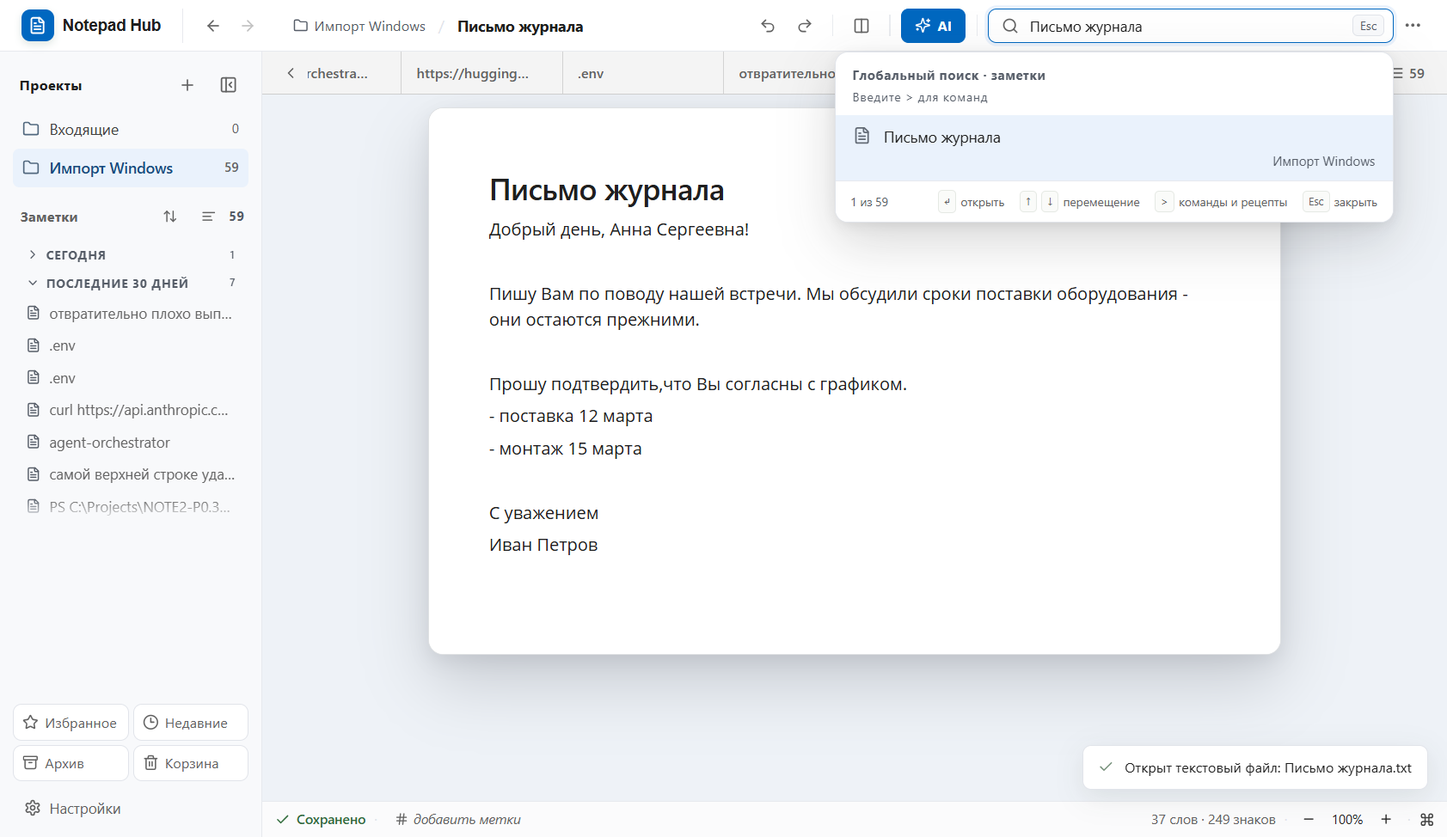
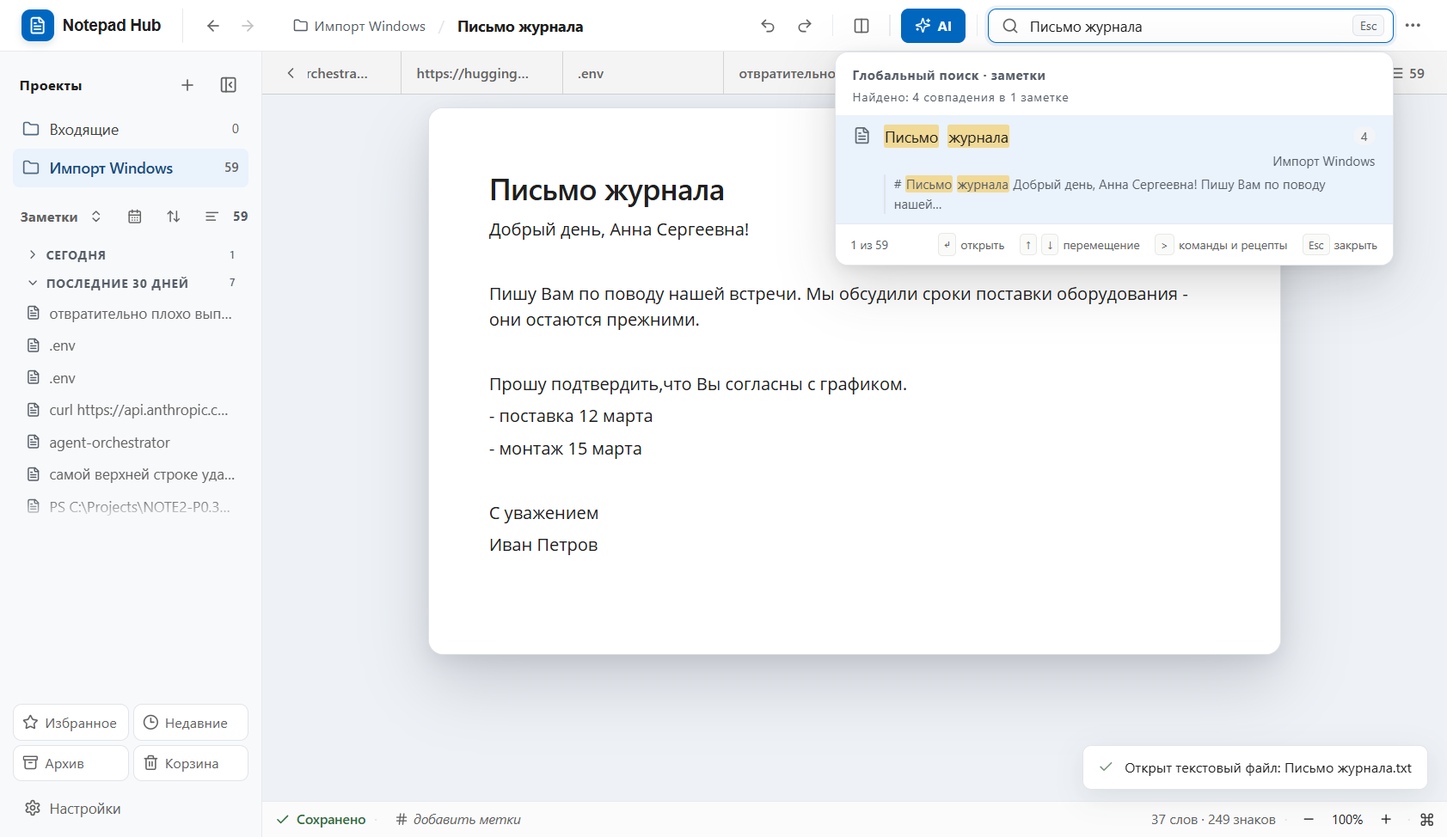
Notebook Navigator ideas: search with highlights and snippets, calendar by day, fold all groups

diff --git a/ui/src/App.tsx b/ui/src/App.tsx
@@ -14,7 +14,7 @@ import { useCreateBlockNote } from "@blocknote/react";
 import { ru } from "@blocknote/core/locales";
 import type { PartialBlock } from "@blocknote/core";
 import {
-  AlignLeft, Archive, ArrowDownToLine, ArrowLeft, ArrowRight, ArrowUpDown, ExternalLink, Link2, Replace, ChevronLeft, ChevronRight, CircleAlert, Minus, Settings, Star, Check, ChevronDown, Clock3, Command, Copy, Download, FileText,
+  AlignLeft, Archive, CalendarDays, ChevronsUpDown, ArrowDownToLine, ArrowLeft, ArrowRight, ArrowUpDown, ExternalLink, Link2, Replace, ChevronLeft, ChevronRight, CircleAlert, Minus, Settings, Star, Check, ChevronDown, Clock3, Command, Copy, Download, FileText,
   Folder, FolderInput, FolderOpen, Hash, Moon, PanelLeftClose, PanelLeftOpen, Pencil, Plus, Columns2, ImagePlus, LoaderCircle, Redo2, Tag, Wand2, RotateCcw, Search, Undo2,
   Sparkles, Sun, Trash2, X, Eye, Pin, PinOff, List, Ellipsis, Info,
 } from "lucide-react";
@@ -23,7 +23,7 @@ import { AiAssistantPanel } from "./components/AiAssistantPanel";
 import { FindBar, type FindHost } from "./components/FindBar";
 import { FindAndReplace } from "@tiptap/extension-find-and-replace";
 import { WikiLinks } from "./wikiLinkExtension";
-import { searchNotes } from "./searchNotes";
+import { searchNotes, splitHighlight } from "./searchNotes";
 import { checkProposal, cleanModelText } from "./aiChecks";
 import { outputTokensFor } from "./aiLimits";
 import { matchShortcut, SHORTCUT_HELP } from "./shortcuts";
@@ -89,6 +89,11 @@ function dateGroup(ts: number | undefined, now: number): (typeof NOTE_GROUPS)[nu
   const day = 24 * 60 * 60 * 1000;
   return ts >= start ? NOTE_GROUPS[0] : ts >= start - day ? NOTE_GROUPS[1] : ts >= start - 6 * day ? NOTE_GROUPS[2] : ts >= start - 29 * day ? NOTE_GROUPS[3] : NOTE_GROUPS[4];
 }
+
+const DAY_MS = 24 * 60 * 60 * 1000;
+const startOfDay = (ts: number) => { const d = new Date(ts); return new Date(d.getFullYear(), d.getMonth(), d.getDate()).getTime(); };
+const MONTHS_RU = ["январь", "февраль", "март", "апрель", "май", "июнь", "июль", "август", "сентябрь", "октябрь", "ноябрь", "декабрь"];
+const MONTHS_GEN = ["января", "февраля", "марта", "апреля", "мая", "июня", "июля", "августа", "сентября", "октября", "ноября", "декабря"];
 
 const AUTO_NAME = /^Заметка \d+$/;
 /** The next automatic name: "Заметка N", N = the count of live automatically named notes + 1. */
@@ -345,6 +350,9 @@ export default function App({ initial, sync }: { initial: LoadedHost; sync: Host
   const [notesSort, setNotesSort] = useState<"modified" | "title">(() => { try { return window.localStorage.getItem("nh4-notes-sort") === "title" ? "title" : "modified"; } catch { return "modified"; } });
   const [notesPreview, setNotesPreview] = useState(() => { try { return window.localStorage.getItem("nh4-notes-preview") === "1"; } catch { return false; } });
   const [closedGroups, setClosedGroups] = useState<string[]>([]);
+  const [calendarOpen, setCalendarOpen] = useState(false);
+  const [calendarMonth, setCalendarMonth] = useState(() => { const d = new Date(); return new Date(d.getFullYear(), d.getMonth(), 1).getTime(); });
+  const [dayFilter, setDayFilter] = useState<number | null>(null);   // the notes list shows the notes changed on this day
   const navStackRef = useRef<string[]>([]);
   const navPosRef = useRef(-1);
   const navSilentRef = useRef(false);
@@ -402,10 +410,13 @@ export default function App({ initial, sync }: { initial: LoadedHost; sync: Host
     if (noteView === "archive") return Boolean(doc.archived);
     if (noteView === "pinned") return Boolean(doc.pinned);
     if (noteView === "recent") return typeof doc.lastOpenedAt === "number" && !doc.archived;
+    if (dayFilter !== null) { const t = doc.modifiedAt ?? 0; return !doc.archived && t >= dayFilter && t < dayFilter + DAY_MS; }
     return !doc.archived && doc.folder === folder;
   }).sort((left, right) => noteView === "recent" || noteView === "pinned"
       ? (right.lastOpenedAt ?? 0) - (left.lastOpenedAt ?? 0)
       : 0);
+  const dayCounts = new Map<number, number>();
+  for (const doc of docs) { if (doc.deletedAt || !doc.modifiedAt) continue; const day = startOfDay(doc.modifiedAt); dayCounts.set(day, (dayCounts.get(day) ?? 0) + 1); }
   const listNow = Date.now();
   const listDocs = noteView === "recent" || noteView === "pinned" ? filteredDocs
     : [...filteredDocs].sort((a, b) => notesSort === "title" ? a.title.localeCompare(b.title, "ru") : (b.modifiedAt ?? 0) - (a.modifiedAt ?? 0));
@@ -465,7 +476,9 @@ export default function App({ initial, sync }: { initial: LoadedHost; sync: Host
     [showSearch, query, docs, contents, tags],
   );
   const searchResults = useMemo(() => searchHits.map((hit) => hit.doc), [searchHits]);
-  const searchSnippets = useMemo(() => new Map(searchHits.map((hit) => [hit.doc.id, hit.snippet])), [searchHits]);
+  const searchHitById = useMemo(() => new Map(searchHits.map((hit) => [hit.doc.id, hit])), [searchHits]);
+  const searchTotal = useMemo(() => searchHits.reduce((sum, hit) => sum + hit.matches, 0), [searchHits]);
+  const markWords = (text: string) => splitHighlight(text, query).map((part, index) => part.hit ? <mark key={index}>{part.text}</mark> : <Fragment key={index}>{part.text}</Fragment>);
   // a service whose model list cannot be loaded still works when the owner types the model name
   const selectedModel = aiModels.find((model) => model.id === aiModel) ?? (aiProvider === "compat" && aiModel.trim() ? { id: aiModel.trim(), name: aiModel.trim(), free: false } : undefined);
   const activeCursorBlock = activeId ? editor.getTextCursorPosition().block : undefined;
@@ -2241,7 +2254,7 @@ export default function App({ initial, sync }: { initial: LoadedHost; sync: Host
               : <>
                 <div className="search-scrim" onMouseDown={() => { setShowSearch(false); setQuery(""); setSelectedSearchIndex(0); window.setTimeout(restoreSearchFocus, 0); }} />
                 <div className="search-field" role="search"><Search size={16} /><input id="global-search" role="combobox" aria-expanded="true" aria-controls="search-listbox" aria-autocomplete="list" aria-activedescendant={`search-opt-${selectedSearchIndex}`} value={query} onChange={(event) => { setQuery(event.target.value); setSelectedSearchIndex(0); }} onKeyDown={handleSearchKeyDown} placeholder="Поиск заметок… Введите &gt; для команд" autoComplete="off" aria-label="Поиск заметок и команд" /><kbd>Esc</kbd></div>
-                <div className="search-modal" role="dialog" aria-label="Результаты поиска" tabIndex={0}><div className="search-results-label" id="search-title">{commandMode ? "Команды" : "Глобальный поиск · заметки"}<small>{commandMode ? "Введите название команды или рецепта" : "Введите > для команд"}</small></div>{commandMode ? <div id="search-listbox" role="listbox" aria-label="Результаты команд">{visibleCommands.map((command, index) => { const Icon = command.icon; return <button key={command.id} id={`search-opt-${index}`} tabIndex={-1} role="option" disabled={command.disabled} className="search-result command-result" aria-selected={index === selectedSearchIndex} onMouseEnter={() => setSelectedSearchIndex(index)} onClick={() => { if (command.disabled) return; rememberCommand(command.id); command.run(); setShowSearch(false); setQuery(""); setSelectedSearchIndex(0); window.setTimeout(restoreSearchFocus, 0); }}><Icon size={17} /><span>{command.label}{!commandQuery && recentCommandIds.includes(command.id) && <em className="search-recent">недавно</em>}<small>{command.hint}{command.disabled ? " · недоступно без активной заметки" : ""}</small></span>{command.shortcut && <kbd className="search-shortcut">{command.shortcut}</kbd>}</button>; })}</div> : <div id="search-listbox" role="listbox" aria-label="Результаты заметок">{searchResults.map((doc, index) => <button key={doc.id} id={`search-opt-${index}`} tabIndex={-1} role="option" className="search-result" aria-selected={index === selectedSearchIndex} onMouseEnter={() => setSelectedSearchIndex(index)} onClick={() => chooseSearchResult(doc)}><FileText size={17} /><span>{doc.title}<small>{doc.folder}{doc.archived ? " · Архив" : ""}</small>{searchSnippets.get(doc.id) ? <small className="search-snippet">{searchSnippets.get(doc.id)}</small> : null}</span></button>)}</div>}{(commandMode ? visibleCommands.length === 0 : searchResults.length === 0) && <div className="search-empty">{commandMode ? "Команды не найдены" : "Ничего не найдено"}</div>}<div className="search-modal-footer"><span className="search-count">{commandMode ? `${visibleCommands.length} из ${commandResults.length}` : `${searchResults.length} из ${docs.filter((doc) => !doc.deletedAt).length}`}</span><span><kbd>↵</kbd> открыть</span>      <span><kbd>↑</kbd><kbd>↓</kbd> перемещение</span><span><kbd>&gt;</kbd> команды и рецепты</span><span><kbd>Esc</kbd> закрыть</span></div></div>
+                <div className="search-modal" role="dialog" aria-label="Результаты поиска" tabIndex={0}><div className="search-results-label" id="search-title">{commandMode ? "Команды" : "Глобальный поиск · заметки"}<small>{commandMode ? "Введите название команды или рецепта" : query.trim() && searchResults.length > 0 ? `Найдено: ${searchTotal} ${plural(searchTotal, ["совпадение", "совпадения", "совпадений"])} в ${searchResults.length} ${plural(searchResults.length, ["заметке", "заметках", "заметках"])}` : "Введите > для команд"}</small></div>{commandMode ? <div id="search-listbox" role="listbox" aria-label="Результаты команд">{visibleCommands.map((command, index) => { const Icon = command.icon; return <button key={command.id} id={`search-opt-${index}`} tabIndex={-1} role="option" disabled={command.disabled} className="search-result command-result" aria-selected={index === selectedSearchIndex} onMouseEnter={() => setSelectedSearchIndex(index)} onClick={() => { if (command.disabled) return; rememberCommand(command.id); command.run(); setShowSearch(false); setQuery(""); setSelectedSearchIndex(0); window.setTimeout(restoreSearchFocus, 0); }}><Icon size={17} /><span>{command.label}{!commandQuery && recentCommandIds.includes(command.id) && <em className="search-recent">недавно</em>}<small>{command.hint}{command.disabled ? " · недоступно без активной заметки" : ""}</small></span>{command.shortcut && <kbd className="search-shortcut">{command.shortcut}</kbd>}</button>; })}</div> : <div id="search-listbox" role="listbox" aria-label="Результаты заметок">{searchResults.map((doc, index) => <button key={doc.id} id={`search-opt-${index}`} tabIndex={-1} role="option" className="search-result" aria-selected={index === selectedSearchIndex} onMouseEnter={() => setSelectedSearchIndex(index)} onClick={() => chooseSearchResult(doc)}><FileText size={17} /><span><span className="search-title-line">{markWords(doc.title)}{(searchHitById.get(doc.id)?.matches ?? 0) > 0 && query.trim() && <em className="search-matches" title="Сколько раз слова запроса встречаются в заметке">{searchHitById.get(doc.id)?.matches}</em>}</span><small>{doc.folder}{doc.archived ? " · Архив" : ""}</small>{query.trim() && (searchHitById.get(doc.id)?.snippets ?? []).map((line, lineIndex) => <small key={lineIndex} className="search-snippet">{markWords(line)}</small>)}</span></button>)}</div>}{(commandMode ? visibleCommands.length === 0 : searchResults.length === 0) && <div className="search-empty">{commandMode ? "Команды не найдены" : "Ничего не найдено"}</div>}<div className="search-modal-footer"><span className="search-count">{commandMode ? `${visibleCommands.length} из ${commandResults.length}` : `${searchResults.length} из ${docs.filter((doc) => !doc.deletedAt).length}`}</span><span><kbd>↵</kbd> открыть</span>      <span><kbd>↑</kbd><kbd>↓</kbd> перемещение</span><span><kbd>&gt;</kbd> команды и рецепты</span><span><kbd>Esc</kbd> закрыть</span></div></div>
               </>}
           </div>
             <details className="note-toolbar-overflow note-menu">
@@ -2279,7 +2292,7 @@ export default function App({ initial, sync }: { initial: LoadedHost; sync: Host
             {folders.map((name) => <button key={name} className={`folder-row${noteView === "folder" && folder === name ? " selected" : ""}`} aria-current={noteView === "folder" && folder === name ? "page" : undefined} onClick={() => handleFolderSelect(name)}><Folder size={16} className="folder-icon" /><span>{name === "Архив" ? "Архив · проект" : name}</span><span className="folder-count">{docs.filter((doc) => doc.folder === name && !doc.deletedAt && !doc.archived).length}</span></button>)}
           </section>
           <section className="nav-section notes-section" aria-label="Заметки раздела">
-            <div className="section-label"><h2>{noteView === "trash" ? "Корзина" : noteView === "archive" ? "Архив" : noteView === "pinned" ? "Избранное" : noteView === "recent" ? "Недавние" : "Заметки"}</h2><span className="notes-tools"><button type="button" className="icon-button tiny" aria-label={notesSort === "modified" ? "Сортировка: по изменению. Нажмите, чтобы сортировать по названию" : "Сортировка: по названию. Нажмите, чтобы сортировать по изменению"} title={notesSort === "modified" ? "Сначала изменённые: нажмите для сортировки по названию" : "По названию: нажмите для сортировки по изменению"} onClick={() => { const next = notesSort === "modified" ? "title" : "modified"; setNotesSort(next); try { window.localStorage.setItem("nh4-notes-sort", next); } catch { /* optional */ } }}><ArrowUpDown size={14} /></button><button type="button" className={`icon-button tiny${notesPreview ? " is-on" : ""}`} aria-pressed={notesPreview} aria-label="Показывать начало текста под названием" title="Начало текста под названием" onClick={() => { const next = !notesPreview; setNotesPreview(next); try { window.localStorage.setItem("nh4-notes-preview", next ? "1" : "0"); } catch { /* optional */ } }}><AlignLeft size={14} /></button><span className="notes-count">{filteredDocs.length}</span></span></div>
+            <div className="section-label"><h2>{noteView === "trash" ? "Корзина" : noteView === "archive" ? "Архив" : noteView === "pinned" ? "Избранное" : noteView === "recent" ? "Недавние" : "Заметки"}</h2><span className="notes-tools">{dayFilter !== null && <button type="button" className="day-chip" title="Показать все заметки проекта" onClick={() => setDayFilter(null)}>{new Date(dayFilter).getDate()} {MONTHS_GEN[new Date(dayFilter).getMonth()]} <X size={11} aria-hidden="true" /></button>}{listGroups.some((g) => g.name) && <button type="button" className="icon-button tiny" aria-label="Свернуть или развернуть все группы" title="Свернуть или развернуть все группы" onClick={() => setClosedGroups((current) => current.length > 0 ? [] : listGroups.map((g) => g.name).filter(Boolean))}><ChevronsUpDown size={14} /></button>}<button type="button" className={`icon-button tiny${dayFilter !== null || calendarOpen ? " is-on" : ""}`} aria-label="Календарь: заметки по дням" aria-expanded={calendarOpen} title="Календарь: заметки по дням" onClick={() => setCalendarOpen((open) => !open)}><CalendarDays size={14} /></button><button type="button" className="icon-button tiny" aria-label={notesSort === "modified" ? "Сортировка: по изменению. Нажмите, чтобы сортировать по названию" : "Сортировка: по названию. Нажмите, чтобы сортировать по изменению"} title={notesSort === "modified" ? "Сначала изменённые: нажмите для сортировки по названию" : "По названию: нажмите для сортировки по изменению"} onClick={() => { const next = notesSort === "modified" ? "title" : "modified"; setNotesSort(next); try { window.localStorage.setItem("nh4-notes-sort", next); } catch { /* optional */ } }}><ArrowUpDown size={14} /></button><button type="button" className={`icon-button tiny${notesPreview ? " is-on" : ""}`} aria-pressed={notesPreview} aria-label="Показывать начало текста под названием" title="Начало текста под названием" onClick={() => { const next = !notesPreview; setNotesPreview(next); try { window.localStorage.setItem("nh4-notes-preview", next ? "1" : "0"); } catch { /* optional */ } }}><AlignLeft size={14} /></button><span className="notes-count">{filteredDocs.length}</span></span></div>
             <ul className="notes-list">
               {listGroups.map((group) => <Fragment key={group.name || "all"}>
                 {group.name && <li className="notes-group"><button type="button" aria-expanded={!closedGroups.includes(group.name)} onClick={() => setClosedGroups((current) => current.includes(group.name) ? current.filter((x) => x !== group.name) : [...current, group.name])}><ChevronDown size={13} className="notes-group-chevron" aria-hidden="true" />{group.name}<small>{group.items.length}</small></button></li>}
@@ -2326,6 +2339,34 @@ export default function App({ initial, sync }: { initial: LoadedHost; sync: Host
             </div>
           </details>
         </aside>
+        {calendarOpen && <div className="rail-backdrop" onMouseDown={() => setCalendarOpen(false)}><div className="calendar-pop note-toolbar-menu" role="dialog" aria-label="Календарь" onMouseDown={(event) => event.stopPropagation()}>
+          <div className="calendar-head">
+            <button type="button" aria-label="Предыдущий месяц" onClick={() => setCalendarMonth((m) => new Date(new Date(m).getFullYear(), new Date(m).getMonth() - 1, 1).getTime())}><ChevronLeft size={15} /></button>
+            <strong>{MONTHS_RU[new Date(calendarMonth).getMonth()]} {new Date(calendarMonth).getFullYear()}</strong>
+            <button type="button" aria-label="Следующий месяц" onClick={() => setCalendarMonth((m) => new Date(new Date(m).getFullYear(), new Date(m).getMonth() + 1, 1).getTime())}><ChevronRight size={15} /></button>
+          </div>
+          <div className="calendar-grid" role="grid">
+            {["п", "в", "с", "ч", "п", "с", "в"].map((d, i) => <span key={i} className="calendar-dow">{d}</span>)}
+            {(() => {
+              const first = new Date(calendarMonth);
+              const lead = (first.getDay() + 6) % 7;
+              const cells: React.ReactElement[] = [];
+              for (let i = 0; i < 42; i++) {
+                const day = new Date(first.getFullYear(), first.getMonth(), 1 - lead + i);
+                const ts = day.getTime();
+                const count = dayCounts.get(ts) ?? 0;
+                const other = day.getMonth() !== first.getMonth();
+                cells.push(<button key={i} type="button" className={`calendar-day${other ? " is-other" : ""}${ts === startOfDay(Date.now()) ? " is-today" : ""}${dayFilter === ts ? " is-selected" : ""}${count > 0 ? " has-notes" : ""}`} title={count > 0 ? `Заметок: ${count}` : "Нет заметок"} onClick={() => { setDayFilter(dayFilter === ts ? null : ts); setCalendarOpen(false); }}>{day.getDate()}{count > 0 && <i aria-hidden="true" />}</button>);
+              }
+              return cells;
+            })()}
+          </div>
+          <div className="calendar-foot">
+            <button type="button" onClick={() => { const d = new Date(); setCalendarMonth(new Date(d.getFullYear(), d.getMonth(), 1).getTime()); setDayFilter(startOfDay(Date.now())); setCalendarOpen(false); }}>Сегодня</button>
+            <button type="button" onClick={() => { setCalendarOpen(false); openDailyNote(); }}>Заметка за сегодня</button>
+            {dayFilter !== null && <button type="button" onClick={() => { setDayFilter(null); setCalendarOpen(false); }}>Показать все</button>}
+          </div>
+        </div></div>}
         {railMenu && <div className="rail-backdrop" onMouseDown={() => setRailMenu(null)}><div className="rail-pop note-toolbar-menu" role="menu" aria-label={railMenu === "pinned" ? "Избранные заметки" : "Недавние заметки"} onMouseDown={(event) => event.stopPropagation()}>
           <div className="rail-pop-title">{railMenu === "pinned" ? "Избранное" : "Недавние"}</div>
           {(railMenu === "pinned" ? pinnedDocs : recentDocs).slice(0, 12).map((doc) => <button key={doc.id} role="menuitem" onClick={() => { setNoteView("folder"); setFolder(doc.folder); selectDocument(doc); }}><FileText size={14} aria-hidden="true" /><span>{doc.title}</span></button>)}

diff --git a/ui/src/searchNotes.ts b/ui/src/searchNotes.ts
@@ -1,7 +1,24 @@
 import { blocksToText, type LooseBlock } from "./textFormat";
 
 type Doc = { id: string; title: string; deletedAt?: unknown; lastOpenedAt?: number };
-export type SearchHit<D extends Doc> = { doc: D; snippet: string };
+/** snippet: the first place of the text where the query matched; snippets: up to three different places; matches: how many times the words occur in the note */
+export type SearchHit<D extends Doc> = { doc: D; snippet: string; snippets: string[]; matches: number };
+
+/** The text cut into pieces, the pieces that equal a query word (any case) marked, for showing the match highlighted. */
+export function splitHighlight(text: string, query: string): Array<{ text: string; hit: boolean }> {
+  const words = [...new Set(query.trim().toLocaleLowerCase("ru").split(/\s+/).filter((w) => w.length > 0))].sort((a, b) => b.length - a.length);
+  if (!text || words.length === 0) return [{ text, hit: false }];
+  const lower = text.toLocaleLowerCase("ru");
+  if (lower.length !== text.length) return [{ text, hit: false }];   // special letters changed the length: do not guess the places
+  const marks: Array<[number, number]> = [];
+  for (const word of words) { let from = 0; for (let i = 0; i < 200; i++) { const at = lower.indexOf(word, from); if (at < 0) break; marks.push([at, at + word.length]); from = at + word.length; } }
+  marks.sort((a, b) => a[0] - b[0]);
+  const out: Array<{ text: string; hit: boolean }> = [];
+  let pos = 0;
+  for (const [a, b] of marks) { if (a < pos) continue; if (a > pos) out.push({ text: text.slice(pos, a), hit: false }); out.push({ text: text.slice(a, b), hit: true }); pos = b; }
+  if (pos < text.length) out.push({ text: text.slice(pos), hit: false });
+  return out;
+}
 
 // lower-cased text per blocks array: only the edited note is converted again
 const textCache = new WeakMap<object, string>();
@@ -19,9 +36,10 @@ const textOf = (blocks: LooseBlock[] | undefined) => {
 export function searchNotes<D extends Doc>(docs: D[], contents: Record<string, LooseBlock[]>, tags: Record<string, string>, query: string, limit = 50): Array<SearchHit<D>> {
   const q = query.trim().toLocaleLowerCase("ru");
   const live = docs.filter((doc) => !doc.deletedAt);
-  if (!q) return live.sort((a, b) => (b.lastOpenedAt ?? 0) - (a.lastOpenedAt ?? 0)).slice(0, limit).map((doc) => ({ doc, snippet: "" }));
+  if (!q) return live.sort((a, b) => (b.lastOpenedAt ?? 0) - (a.lastOpenedAt ?? 0)).slice(0, limit).map((doc) => ({ doc, snippet: "", snippets: [], matches: 0 }));
   const words = q.split(/\s+/).filter(Boolean);
   const hits: Array<SearchHit<D> & { score: number }> = [];
+  const around = (body: string, at: number) => { const start = Math.max(0, at - 30); return (start > 0 ? "…" : "") + body.slice(start, at + 70).replace(/\s+/g, " ").trim() + (at + 70 < body.length ? "…" : ""); };
   for (const doc of live) {
     const title = doc.title.toLocaleLowerCase("ru");
     const tag = (tags[doc.id] ?? "").toLocaleLowerCase("ru");
@@ -37,13 +55,15 @@ export function searchNotes<D extends Doc>(docs: D[], contents: Record<string, L
     if (!ok) continue;
     if (title.includes(q)) score += 4;
     if (title.startsWith(q)) score += 2;
-    let snippet = "";
-    const at = bodyLower.indexOf(words.find((w) => bodyLower.includes(w)) ?? "");
-    if (at >= 0 && !title.includes(q)) {
-      const start = Math.max(0, at - 30);
-      snippet = (start > 0 ? "…" : "") + body.slice(start, at + 70).replace(/\s+/g, " ").trim() + (at + 70 < body.length ? "…" : "");
-    }
-    hits.push({ doc, snippet, score });
+    // every place of the body where a word occurs (up to 60), three of them far enough from each other become snippets
+    const places: number[] = [];
+    for (const word of words) { let from = 0; for (let i = 0; i < 60; i++) { const at = bodyLower.indexOf(word, from); if (at < 0) break; places.push(at); from = at + Math.max(1, word.length); } }
+    places.sort((a, b) => a - b);
+    const snippets: string[] = [];
+    let last = -1000;
+    for (const at of places) { if (at - last >= 100 && snippets.length < 3) { snippets.push(around(body, at)); last = at; } }
+    const snippet = !title.includes(q) ? (snippets[0] ?? "") : "";
+    hits.push({ doc, snippet, snippets, matches: places.length + words.filter((w) => title.includes(w)).length, score });
   }
-  return hits.sort((a, b) => b.score - a.score || (b.doc.lastOpenedAt ?? 0) - (a.doc.lastOpenedAt ?? 0)).slice(0, limit).map(({ doc, snippet }) => ({ doc, snippet }));
+  return hits.sort((a, b) => b.score - a.score || (b.doc.lastOpenedAt ?? 0) - (a.doc.lastOpenedAt ?? 0)).slice(0, limit).map(({ doc, snippet, snippets, matches }) => ({ doc, snippet, snippets, matches }));
 }

diff --git a/ui/src/layout-v4.css b/ui/src/layout-v4.css
@@ -720,3 +720,34 @@
 .app-shell .outline-list { list-style: none; margin: 0 0 12px; padding: 0; display: grid; gap: 1px; }
 .app-shell .outline-list button { display: block; width: 100%; padding: 5px 8px; border: 0; border-radius: 6px; background: transparent; color: var(--ink); font: inherit; font-size: 13px; text-align: left; overflow: hidden; text-overflow: ellipsis; white-space: nowrap; cursor: pointer; }
 .app-shell .outline-list button:hover { background: var(--surface-hover); color: var(--accent-strong); }
+.app-shell .search-result mark { background: color-mix(in srgb, #f5c542 55%, transparent); color: inherit; border-radius: 2px; padding: 0 1px; }
+.app-shell .search-title-line { display: flex; align-items: center; gap: 8px; }
+.app-shell .search-matches { margin-left: auto; padding: 0 7px; border-radius: 9px; background: var(--surface-hover); color: var(--ink-soft); font-style: normal; font-size: 11.5px; font-variant-numeric: tabular-nums; }
+.app-shell .search-result .search-snippet { display: block; white-space: normal; overflow: hidden; text-overflow: ellipsis; margin-top: 3px; padding-left: 8px; border-left: 2px solid var(--line-strong); color: var(--ink-soft); -webkit-line-clamp: 2; -webkit-box-orient: vertical; display: -webkit-box; }
+
+/* calendar of the notes list (idea of the Notebook Navigator): the days with notes are marked, a click shows the notes of that day */
+.app-shell .day-chip { display: inline-flex; align-items: center; gap: 4px; height: 20px; padding: 0 7px; border: 0; border-radius: 10px; background: var(--accent-soft); color: var(--accent-strong); font: inherit; font-size: 11.5px; cursor: pointer; }
+.app-shell .calendar-pop { position: fixed; left: 16px; top: 190px; right: auto; width: 268px; padding: 10px; display: grid; gap: 8px; }
+.app-shell .calendar-head { display: flex; align-items: center; justify-content: space-between; }
+.app-shell .calendar-head strong { font-size: 13px; text-transform: capitalize; }
+.app-shell .calendar-head button, .app-shell .calendar-foot button { display: grid; place-items: center; min-width: 28px; height: 28px; padding: 0 8px; border: 0; border-radius: 7px; background: transparent; color: var(--ink); font: inherit; font-size: 12.5px; cursor: pointer; }
+.app-shell .calendar-head button:hover, .app-shell .calendar-foot button:hover { background: var(--surface-hover); }
+.app-shell .calendar-grid { display: grid; grid-template-columns: repeat(7, 1fr); gap: 2px; text-align: center; }
+.app-shell .calendar-dow { font-size: 11px; color: var(--ink-quiet); padding: 2px 0; }
+.app-shell .calendar-day { position: relative; height: 30px; border: 0; border-radius: 7px; background: transparent; color: var(--ink); font: inherit; font-size: 12.5px; cursor: pointer; }
+.app-shell .calendar-day.is-other { color: var(--ink-quiet); opacity: .55; }
+.app-shell .calendar-day:hover { background: var(--surface-hover); }
+.app-shell .calendar-day.is-today { outline: 1px solid var(--accent); }
+.app-shell .calendar-day.is-selected { background: var(--accent); color: #fff; }
+.app-shell .calendar-day.has-notes i { position: absolute; left: 50%; bottom: 3px; width: 4px; height: 4px; margin-left: -2px; border-radius: 50%; background: var(--accent); }
+.app-shell .calendar-day.is-selected i { background: #fff; }
+.app-shell .calendar-foot { display: flex; gap: 4px; flex-wrap: wrap; border-top: 1px solid var(--line); padding-top: 6px; }
+.app-shell .calendar-pop .calendar-head { display: flex; align-items: center; justify-content: space-between; gap: 8px; }
+.app-shell .calendar-pop .calendar-head strong { flex: 1; text-align: center; white-space: nowrap; }
+.app-shell .calendar-pop .calendar-head button { width: 30px; flex: 0 0 30px; padding: 0; }
+.app-shell .calendar-pop .calendar-foot { display: flex; flex-direction: row; flex-wrap: wrap; gap: 4px; }
+.app-shell .calendar-pop .calendar-foot button { width: auto; flex: 0 0 auto; padding: 0 10px; border: 1px solid var(--line-strong); background: var(--surface); }
+.app-shell .calendar-pop .calendar-day { width: 100%; display: grid; place-items: center; padding: 0; }
+.app-shell .search-result > span { align-items: stretch !important; width: 100%; }
+.app-shell .search-result > span > small { text-align: left; align-self: flex-start; }
+.app-shell .search-result .search-title-line { width: 100%; }

diff --git a/docs/design/2026-10-16-analogue-obsidian.md b/docs/design/2026-10-16-analogue-obsidian.md
@@ -29,3 +29,25 @@
 
 ## Что реализовано
 `ideas-e2e.mjs` проверяет каждый пункт «Перенести»; «Показать в Проводнике» проверен модульным тестом ядра (`Reveal_note_shows_only_the_notes_own_file…`), а в окне его нажатие не воспроизводилось, чтобы тест не открывал Проводник.
+
+---
+
+# Дополнение: Notebook Navigator (плагин Obsidian), четыре снимка владельца
+
+## Что видно
+1. **Поиск:** поле с переключателем регистра и очисткой, «Найдено: 250», выбор сортировки, результаты по заметкам с числом совпадений и несколькими строками контекста, найденное слово подсвечено.
+2. **Дерево папок:** вложенные папки с шевронами, панель: новая заметка, новая папка, сортировка, внешний вид, свернуть и развернуть всё.
+3. **Порядок разделов:** окно «Изменить порядок навигации» со стрелками и перетаскиванием («Ярлыки», «Недавние файлы», папки).
+4. **Дерево со счётчиками** «заметок в папке • во вложенных», группы «Ярлыки» и «Недавние файлы», **календарь месяца** внизу (клик по дню), внизу слева хранилище со значками справки и настроек.
+
+## Решения
+| Решение аналога | Решение | Основание |
+|---|---|---|
+| Результаты поиска с подсветкой, числом совпадений и несколькими строками контекста, итог «Найдено» | **Перенесено** | Раньше одна строка без подсветки; теперь видно, где именно найдено |
+| Календарь по дням | **Перенесено** в виде значка в шапке «Заметки» с окном месяца | Не добавляет раздел в меню (R20); дни с заметками отмечены, клик показывает заметки дня из всех проектов |
+| Свернуть и развернуть всё | **Перенесено** для групп по дням | У нас нет дерева, но группы по дням свёртываются |
+| Дерево вложенных папок со счётчиками | **Отложено**, нужно решение владельца | Потребует иерархии проектов в формате данных (`projects.json`) и переноса старых данных; сейчас проекты плоские и их три. Предложение: добавить поле «родитель» к проекту, показ деревом с шевронами, счётчик «в проекте • во вложенных» |
+| Настройка порядка разделов стрелками | **Отклонено** | Порядок блоков закреплён вашим требованием R20 |
+| Ярлыки и «Недавние файлы» как группы дерева | **Уже есть** | Блок «Избранное, Недавние, Архив, Корзина» |
+| Имя хранилища и переключатель | **Отклонено** | Хранилище одно |
+| Сортировка и регистр в поиске | **Не перенесено** | Ранжирование по релевантности лучше для вашего случая; регистр не нужен: поиск без учёта регистра |

diff --git a/docs/OWNER_REQUIREMENTS.md b/docs/OWNER_REQUIREMENTS.md
@@ -29,6 +29,8 @@
 | R22 | 2026-10-16 | Список заметок: группы по дню изменения со сворачиванием, сортировка, выключатель «начало текста» | `App.tsx` | `ideas-e2e.mjs` |
 | R23 | 2026-10-16 | Назад и вперёд по открытым заметкам (кнопки и Alt ←/→) | `App.tsx` | `ideas-e2e.mjs` |
 | R24 | 2026-10-16 | Содержание (заголовки) в панели «Содержание и свойства»; «Обратных ссылок: N» в нижней строке при N > 0 | `App.tsx` | `ideas-e2e.mjs` |
+| R25 | 2026-10-16 | Из Notebook Navigator: результаты поиска показывают «Найдено: N совпадений в M заметках», слова подсвечены, у заметки счётчик и до трёх строк контекста | `searchNotes.ts`, `App.tsx` | `searchNotes.test.mjs`, `ideas-e2e.mjs` |
+| R26 | 2026-10-16 | Из Notebook Navigator: календарь в шапке «Заметки» (дни с заметками отмечены, клик показывает заметки этого дня из всех проектов, «Заметка за сегодня»), кнопка «свернуть/развернуть все группы» | `App.tsx` | `ideas-e2e.mjs` |
 
 ## Общие правила
 1. Одно действие в одном месте. Перед добавлением кнопки найти все такие же действия (`grep` по подписям) и убрать дубли.

diff --git a/docs/evidence/journey.md b/docs/evidence/journey.md
@@ -1,6 +1,6 @@
 # Журнал сквозного сценария
 
-Хэш кода: 726fc556f806bf86
+Хэш кода: 6b1a7116fcf11759
 Команда: node tests/e2e/journey-e2e.mjs src/NotepadHub.Host/bin/Debug/net8.0-windows/NotepadHub4.exe <копия профиля data-v3.zip> docs/evidence
 Код выхода: 0
 Дата: 2026-10-16
